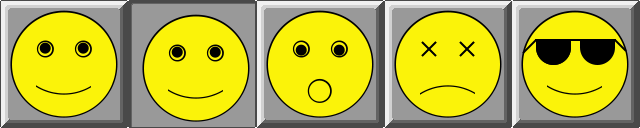
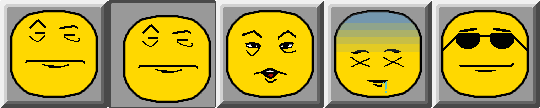
update face graphics to be better and more original

diff --git a/game/draw.c b/game/draw.c
@@ -456,7 +456,7 @@ bool draw_init()
         return false;
     }
     if (!init_spritesheet_uniform(&face_sheet, TEX_GET(FACE),
-                                  5, 1, 128, 128)) {
+                                  5, 1, 108, 108)) {
         log_error("Could not init numbers sprite sheet");
         return false;
     }
